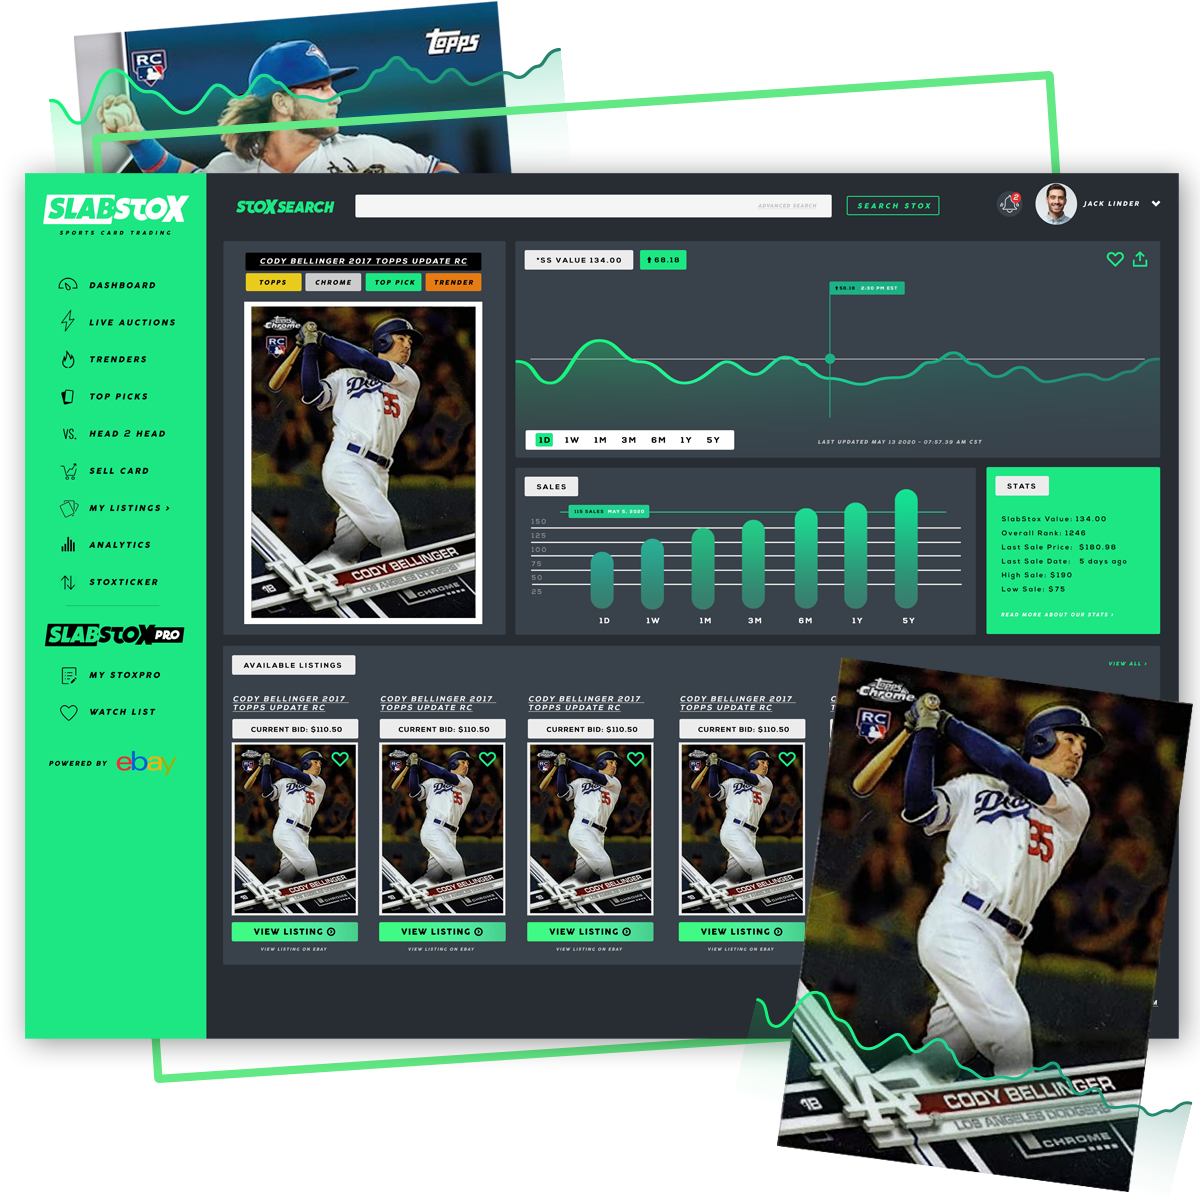
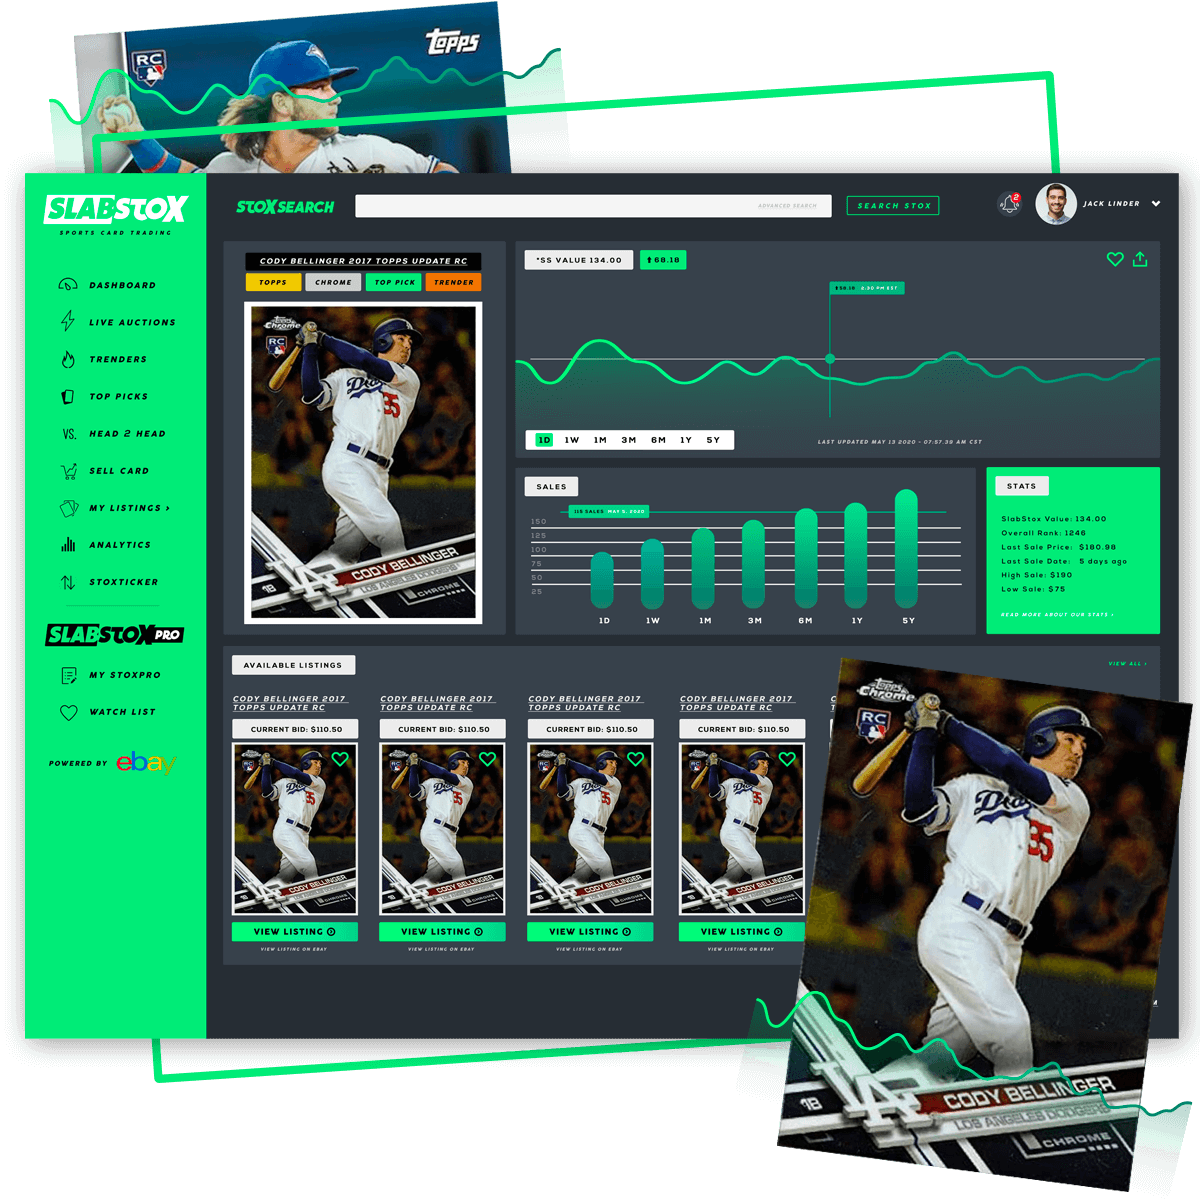
reduce size of pngs and minor css adjustments

diff --git a/src/MainPage/MainPage.css b/src/MainPage/MainPage.css
@@ -1,53 +1,63 @@
-.main {
-	height: 100vh;
-	display: flex;
-	flex-direction: column;
-	justify-content: space-between;
-	font-family: 'Ubuntu', sans-serif;
-	font-style: italic;
-	color: rgba(203, 226, 235);
-	position: relative;
-	background: linear-gradient(rgb(35, 115, 126), #74cce9);
-	overflow: hidden;
+@keyframes bounce {
+	0% {
+		transform: translateY(0);
+	}
+	25% {
+		transform: translateY(-15px);
+	}
+	50% {
+		transform: translateY(0px);
+	}
+	75% {
+		transform: translateY(-5px);
+	}
+	100% {
+		transform: translateY(0px);
+	}
 }
 
-.main__intro {
-	font-size: 30px;
-	padding-left: 50px;
-	z-index: 10;
+.main {
+	height: 100vh;
+	font-family: var(--main-font);
+	background: url('../images/background.jpg');
+	background-attachment: fixed;
+	background-position: 50% 50%;
+	background-size: cover;
+	background-repeat: none;
+	overflow: hidden;
+	position: relative;
 }
 
 .main__title {
 	display: flex;
-	margin-left: 20%;
-	z-index: 10;
+	flex-direction: column;
+	justify-content: center;
+	align-items: center;
+	position: absolute;
+	top: 0;
+	bottom: 0;
+	width: 100%;
 }
 
 .main__title > div > p {
 	font-size: 200px;
-	background: -webkit-linear-gradient(45deg, rgb(16, 95, 82), #048cb9);
-	-webkit-background-clip: text;
-	-webkit-text-fill-color: transparent;
-}
-.main__title > div > p:first-child {
-	margin-bottom: -100px;
-	margin-left: -30px;
-}
-.main__title > i {
-	font-size: 250px;
-	background: -webkit-linear-gradient(45deg, rgb(16, 95, 82), #048cb9);
-	-webkit-background-clip: text;
-	-webkit-text-fill-color: transparent;
+	font-weight: 500;
+	text-align: center;
+	line-height: 80%;
+	color: white;
+	-webkit-text-stroke: 1px black;
+	margin: 0;
 }
 
-.main__footer {
-	display: flex;
-	justify-content: center;
-	padding-left: 50px;
-	color: rgb(16, 95, 82);
-	transform: translateY(-15px);
-	z-index: 10;
+.main__title > p {
+	font-size: 30px;
+	margin-top: 30px;
+	color: #f5f5f5;
 }
-.main__footer > * {
-	margin: 0 30px;
+.mouse_icon {
+	color: #f5f5f5;
+	position: absolute;
+	bottom: 2%;
+	left: 50%;
+	animation: bounce 1100ms ease-in infinite;
 }

diff --git a/src/MainPage/MainPage.js b/src/MainPage/MainPage.js
@@ -1,53 +1,23 @@
 import React from 'react';
 import Navbar from '../Navbar/Navbar';
-import BubblesEffect from '../BubbleEffect/BubblesEffect';
-import FacebookIcon from '@material-ui/icons/Facebook';
-import LinkedInIcon from '@material-ui/icons/LinkedIn';
-import TwitterIcon from '@material-ui/icons/Twitter';
-import GitHubIcon from '@material-ui/icons/GitHub';
-
+import MouseOutlinedIcon from '@material-ui/icons/MouseOutlined';
 import './MainPage.css';
-import { IconButton } from '@material-ui/core';
 
 const MainPage = () => {
 	return (
 		<div id="Home" className="main">
 			<Navbar />
-			<div className="main__intro">
-				<p>Hello, welcome to my Portfolio!</p>
-				<p style={{ borderBottom: '3px solid white' }}>
-					I am an aspiring Front End Developer with an interest in all things
-					React.js
-				</p>
-			</div>
 			<div className="main__title">
 				<div>
 					<p>Andres</p>
 					<p>Medrano</p>
 				</div>
-				<i class="fas fa-laptop-code"></i>
+				<p>
+					I am an aspiring Front End Developer with an interest in all things
+					React.js
+				</p>
 			</div>
-			<div className="main__footer">
-				<IconButton
-					target="_blank"
-					href="https://www.facebook.com/andres.medrano.98"
-				>
-					<FacebookIcon fontSize="large" />
-				</IconButton>
-				<IconButton
-					target="_blank"
-					href="https://www.linkedin.com/in/andres-medrano-19ba91132/"
-				>
-					<LinkedInIcon fontSize="large" />
-				</IconButton>
-				<IconButton>
-					<TwitterIcon fontSize="large" />
-				</IconButton>
-				<IconButton target="_blank" href="https://github.com/amedra13">
-					<GitHubIcon fontSize="large" />
-				</IconButton>
-			</div>
-			<BubblesEffect />
+			<MouseOutlinedIcon className="mouse_icon" fontSize="large" />
 		</div>
 	);
 };

diff --git a/public/index.html b/public/index.html
@@ -1,10 +1,7 @@
 <!DOCTYPE html>
 <html lang="en">
   <head>
-    <link href="https://fonts.googleapis.com/css2?family=Bubblegum+Sans&family=Ubuntu:ital@1&display=swap" rel="stylesheet">    <meta charset="utf-8" />
-    <meta name="viewport" content="width=device-width, initial-scale=1" />
-    <meta name="theme-color" content="#000000" />
-    <meta
+    <link href="https://fonts.googleapis.com/css2?family=Barlow+Condensed:ital,wght@0,400;0,500;1,500&display=swap" rel="stylesheet">    <meta
       name="description"
       content="Web site created using create-react-app"
     />
@@ -36,6 +33,5 @@
       To begin the development, run `npm start` or `yarn start`.
       To create a production bundle, use `npm run build` or `yarn build`.
     -->
-    <script src="https://kit.fontawesome.com/2f4f046d1c.js" crossorigin="anonymous"></script>
   </body>
 </html>

diff --git a/src/Portfolio/Portfolio.js b/src/Portfolio/Portfolio.js
@@ -1,5 +1,4 @@
 import React from 'react';
-import MouseOutlinedIcon from '@material-ui/icons/MouseOutlined';
 import LazyLoad from 'react-lazyload';
 import ProjectItem from './Projects/ProjectItem';
 import projectData from './Projects/projectsData';
@@ -10,11 +9,6 @@ const Portfolio = () => {
 		<div id="Portfolio" className="portfolio">
 			<div className="portfolio__title">
 				<h1>Portfolio</h1>
-				<p>Take a look at the projects I have worked on and participating in</p>
-				<div>
-					<MouseOutlinedIcon className="mouse__icon" fontSize="large" />
-					<p>scroll</p>
-				</div>
 			</div>
 			<div className="portfolio__projects">
 				{projectData.map((project) => (

diff --git a/src/AboutMe/AboutMe.js b/src/AboutMe/AboutMe.js
@@ -6,6 +6,7 @@ import ReactLogo from '../images/react_logo.png';
 import ReduxLogo from '../images/redux_logo.png';
 import ReactRouterLogo from '../images/reactRouter_logo.png';
 import RestApiLogo from '../images/restApi_logo.png';
+import FirebaseLogo from '../images/firebase_logo.jpg';
 import MaterialUILogo from '../images/materialUI_logo.png';
 
 import './AboutMe.css';
@@ -55,6 +56,11 @@ const AboutMe = () => {
 							/>
 							<img
 								style={{ animationDelay: '1200ms' }}
+								src={FirebaseLogo}
+								alt=""
+							/>
+							<img
+								style={{ animationDelay: '1300ms' }}
 								src={MaterialUILogo}
 								alt=""
 							/>

diff --git a/src/Portfolio/Portfolio.css b/src/Portfolio/Portfolio.css
@@ -16,18 +16,21 @@
 	}
 }
 .portfolio {
-	background: linear-gradient(rgb(0, 159, 187), #b9dae6);
+	background: url('../images/background.jpg');
+	background-attachment: fixed;
+	background-position: 50% 50%;
+	background-size: cover;
+	background-repeat: none;
 	overflow: hidden;
 	font-family: 'Ubuntu', sans-serif;
 }
 .portfolio__title {
-	height: 100vh;
+	height: 20vh;
 	display: flex;
 	flex-direction: column;
 	justify-content: space-evenly;
 	text-align: center;
 	color: rgb(203, 226, 235);
-	border: 2px solid purple;
 }
 .portfolio__title > h1 {
 	font-size: 75px;

diff --git a/src/Navbar/Navbar.css b/src/Navbar/Navbar.css
@@ -5,6 +5,7 @@
 	height: 10vh;
 	width: 90vw;
 	margin: 0 auto;
+	font-family: var(--main-font);
 }
 .navbar > * {
 	z-index: 100;
@@ -21,7 +22,6 @@
 	color: rgba(203, 226, 235, 0.822);
 	font-size: 20px;
 	font-weight: bold;
-	font-family: 'Ubuntu', sans-serif;
 }
 
 .navbar__links > a::before {

diff --git a/src/AboutMe/AboutMe.css b/src/AboutMe/AboutMe.css
@@ -26,6 +26,7 @@
 	display: flex;
 	justify-content: center;
 	align-items: center;
+	font-family: var(--main-font);
 }
 
 .aboutMe__Container {
@@ -72,7 +73,7 @@
 }
 
 .skills_container img {
-	width: 12vw;
+	width: 10vw;
 	height: 150px;
 	margin: 10px;
 	object-fit: contain;

diff --git a/src/Contact/Contact.css b/src/Contact/Contact.css
@@ -1,7 +1,7 @@
 .contact {
 	min-height: 100vh;
 	background: linear-gradient(rgb(35, 115, 126), #74cce9);
-	font-family: 'Ubuntu', sans-serif;
+	font-family: var(--main-font);
 	display: flex;
 	flex-direction: column;
 	justify-content: center;

diff --git a/src/Portfolio/Projects/ProjectItem.css b/src/Portfolio/Projects/ProjectItem.css
@@ -29,6 +29,7 @@
 	height: 80vh;
 	border-radius: 5px;
 	color: white;
+	font-family: var(--main-font);
 }
 .projectItem__gridItem > a {
 	border: 2px solid white;

diff --git a/src/App.css b/src/App.css
@@ -3,6 +3,9 @@
 	margin: 0;
 	padding: 0;
 }
+:root {
+	--main-font: 'Barlow Condensed', sans-serif;
+}
 html {
 	scroll-behavior: smooth;
 }
